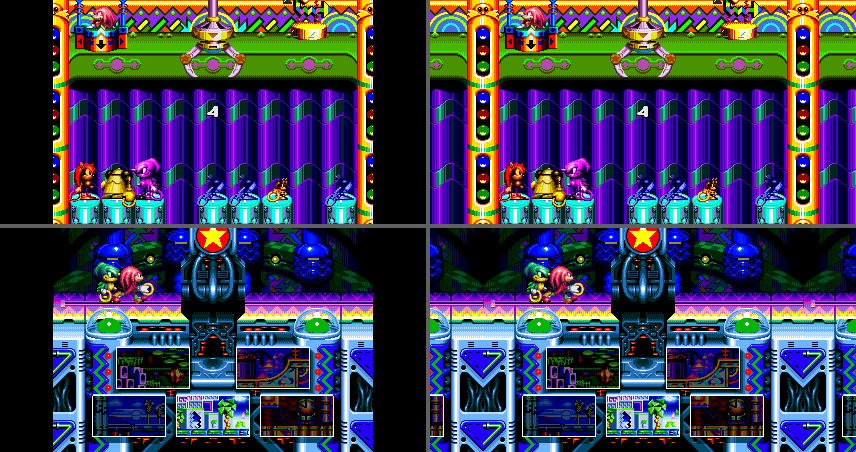
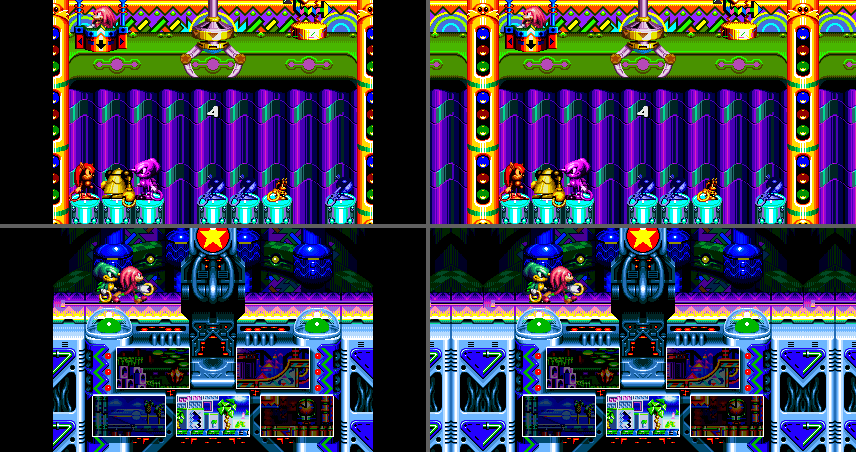
Stage select room: continue its wall panel, not the whole room (issue #5)
Repeated whole, the stage select room put half-cut 32X monitors, domes
and pieces of the central console into the margins. Its one repeating
part is its wall: a 64 px metal panel centred on each 4:3 edge, under the
16 px zig-zag floor band. The margins now continue that panel every 64 px
from the room's planes, with no sprites and no 32X (the character box is
gone). The Combi Catcher keeps its whole-room repeat.

diff --git a/src/runtime/system.cpp b/src/runtime/system.cpp
@@ -402,6 +402,7 @@ void Machine::render_output_line(int src_line, int dst_row) {
     // A room one screen wide, repeated in its margins (patches.h).
     const bool room = extra && wide_active && !wide_special && room_period > 0;
     vdp.tile_period = room ? room_period : 0;
+    vdp.tile_unit = room ? room_unit : 0;
     vdp.tile_left = room && lobby_room_left;
     vdp.tile_right = room && lobby_room_right;
     // Left of the lobby's origin, plane B only (patches::MarginCut).
@@ -483,18 +484,12 @@ void Machine::render_output_line(int src_line, int dst_row) {
         else if (debug_layer == 2 && !(show32x || ((p >> 24) == 0xFD && mdbg))) row[x] = 0xFFFF00FFu;
     }
     if (room) {
-        // The repeated room's margins: its planes (already repeated, without
-        // sprites), and in the stage select room its whole picture from
-        // room_period px further in, but for the characters' box
+        // The repeated room's margins are its planes alone (already repeated,
+        // without sprites): nothing the 32X draws belongs to the room's walls
         // (patches::kRoomRepeat).
-        const bool line_box = src_line >= room_box[2] && src_line < room_box[3];
-        auto repeat = [&](int x, int from) {
-            const int sx = from - extra;  // screen X of the column copied
-            if (room_32x && !(line_box && sx >= room_box[0] && sx < room_box[1])) row[x] = row[from];
-            else row[x] = 0xFF000000u | (indexed ? cram_rgb[top[x] & 0x3F] : md[x]);
-        };
-        if (vdp.tile_left) for (int x = 0; x < extra; ++x) repeat(x, x + room_period);
-        if (vdp.tile_right) for (int x = n - extra; x < n; ++x) repeat(x, x - room_period);
+        auto planes = [&](int x) { row[x] = 0xFF000000u | (indexed ? cram_rgb[top[x] & 0x3F] : md[x]); };
+        if (vdp.tile_left) for (int x = 0; x < extra; ++x) planes(x);
+        if (vdp.tile_right) for (int x = n - extra; x < n; ++x) planes(x);
     }
     if (extra) {
         // Scenes without widescreen support: black side bars. In a level,

diff --git a/src/runtime/vdp.cpp b/src/runtime/vdp.cpp
@@ -537,10 +537,21 @@ bool Vdp::render_line_indexed(int line, uint8_t* top, uint32_t* out_rgb, uint8_t
         for (int x = std::max(plane_a_hide_x0[i], xs); x < std::min(plane_a_hide_x1[i], xe); ++x)
             if (x < 0 || x >= width) a[x - xs] = 0;
     // A room repeated into the margins (tile_period): from inside the room.
-    const bool tiled = tile_period >= extra && tile_period <= width && extra > 0;
+    const bool tiled = tile_period >= extra && tile_period <= width && extra > 0 && tile_unit >= 0 &&
+                       tile_unit <= tile_period;
     if (tiled) {
-        for (int x = xs; x < 0 && tile_left; ++x) a[x - xs] = a[x + tile_period - xs], b[x - xs] = b[x + tile_period - xs];
-        for (int x = width; x < xe && tile_right; ++x) a[x - xs] = a[x - tile_period - xs], b[x - xs] = b[x - tile_period - xs];
+        // The column a margin column repeats: tile_period px further in, or
+        // with tile_unit, the same place in the unit straddling the 4:3 edge
+        // (c in [-unit/2, unit/2) from the seam, c < 0 being the far side's).
+        auto source = [&](int x) {
+            if (!tile_unit) return x < 0 ? x + tile_period : x - tile_period;
+            const int h = tile_unit / 2;
+            const int from_seam = x < 0 ? x : x - width;
+            const int c = ((from_seam + h) % tile_unit + tile_unit) % tile_unit - h;
+            return c < 0 ? tile_period + c : c;
+        };
+        for (int x = xs; x < 0 && tile_left; ++x) a[x - xs] = a[source(x) - xs], b[x - xs] = b[source(x) - xs];
+        for (int x = width; x < xe && tile_right; ++x) a[x - xs] = a[source(x) - xs], b[x - xs] = b[source(x) - xs];
     }
     if (radial_len > 0 && extra > 0 && line >= 0 && line < height()) {
         // The margins continue the scene's rings (see radial_lut). The rings

diff --git a/src/runtime/patches.h b/src/runtime/patches.h
@@ -578,14 +578,19 @@ constexpr int kLobbyCycled = 8;
 // the next one stood beside it: the room's planes kRoomRepeat px further in
 // (the pillars, the pit's purple columns, the drum, the console's side
 // panels continue across the seam), without sprites, which belong to this
-// room only. The stage select room's screens are 32X pictures in the
-// console: there the whole picture is repeated, but for the box around the
-// two characters and their ring (kRoomCharacterBox), where only its planes
-// are. Render only (Vdp::tile_period, Machine::render_output_line).
+// room only, and nothing of the 32X (the claw, the signs, the characters,
+// the stage select room's monitors).
+// The stage select room is not repeated whole: its drum, monitors, star
+// machine and console are one of a kind, and repeated they were cut in half
+// at the margins' outer edges. What does repeat there is its wall: a 64 px
+// metal panel (the pipe "7" and the triangle) centred on each 4:3 edge, half
+// of it inside the picture on either side, with the zig-zag floor band
+// (16 px) above it. The margins continue that panel every kStageSelectWall
+// px (Vdp::tile_unit), so the wall goes on outward. Render only
+// (Vdp::tile_period, Machine::render_output_line).
 constexpr int kRoomRepeat = 320;  // the native screen's width
 constexpr int kStageSelectRoomX = 2816;
-constexpr uint32_t kPlayerObjectPtr = 0xE034, kPartnerObjectPtr = 0xE036;  // words: object addresses
-constexpr int kRoomCharacterBox[4] = {-32, 32, -48, 32};  // x0, x1, y0, y1 around each character
+constexpr int kStageSelectWall = 64;
 // Fills Machine::lobby_* for this frame's picture, margins of e px.
 void lobby_margins(Machine& m, int e);
 // Fills Machine::room_* for a room one screen wide (kRoomRepeat).

diff --git a/src/runtime/patches.cpp b/src/runtime/patches.cpp
@@ -741,19 +741,9 @@ void lobby_margins(Machine& m, int e) {
 
 void room_repeat(Machine& m) {
     m.room_period = kRoomRepeat;
+    // The stage select room: only its wall panel repeats.
     const CameraRange r = camera_range(m);
-    m.room_32x = r.left == kStageSelectRoomX && r.right == kStageSelectRoomX;
-    if (!m.room_32x) return;
-    // The characters and the ring between them, on screen.
-    int x0 = INT32_MAX, x1 = INT32_MIN, y0 = INT32_MAX, y1 = INT32_MIN;
-    for (uint32_t ptr : {kPlayerObjectPtr, kPartnerObjectPtr}) {
-        const uint32_t obj = wram16(m, ptr);
-        if (obj < 0x8000 || obj > 0xFFC0) continue;
-        const int x = int16_t(wram16(m, obj + 8)) - camera_x(m), y = int16_t(wram16(m, obj + 0xC)) - camera_y(m);
-        x0 = std::min(x0, x + kRoomCharacterBox[0]), x1 = std::max(x1, x + kRoomCharacterBox[1]);
-        y0 = std::min(y0, y + kRoomCharacterBox[2]), y1 = std::max(y1, y + kRoomCharacterBox[3]);
-    }
-    m.room_box[0] = x0, m.room_box[1] = x1, m.room_box[2] = y0, m.room_box[3] = y1;
+    m.room_unit = r.left == kStageSelectRoomX && r.right == kStageSelectRoomX ? kStageSelectWall : 0;
 }
 
 bool title_margins(const Machine& m) { return wram16(m, kGameMode) == title_hold::kModeTitle; }
@@ -945,7 +935,7 @@ void begin_frame(Machine& m) {
     }
     m.ending_wide = level && ending_level(m);
     m.room_period = 0;
-    m.room_32x = false;
+    m.room_unit = 0;
     if (level && in_lobby(m)) {
         lobby_margins(m, e);
         if (m.lobby_room_left || m.lobby_room_right) room_repeat(m);

diff --git a/tests/test_widescreen_render.cpp b/tests/test_widescreen_render.cpp
@@ -372,8 +372,8 @@ TEST(widescreen_render, a_lobby_room_repeats_outside_its_range) {
     // Issue #61: the stage select room holds the camera at 2816..2816; its
     // margins would show the corridor beside it and, as it scrolls down,
     // blocks the engine never draws. They were black; since issue #5 they
-    // repeat the room (patches::kRoomRepeat), the stage select room's 32X
-    // picture too. A wide range is no room: its ends move as the player
+    // repeat the room (patches::kRoomRepeat); in the stage select room only
+    // its 64 px wall panel. A wide range is no room: its ends move as the player
     // goes on, and what lies beyond them was just in view.
     auto m = level_machine();
     auto put = [&](uint32_t at, int v) { m->wram[at] = uint8_t(v >> 8); m->wram[at + 1] = uint8_t(v); };
@@ -389,7 +389,7 @@ TEST(widescreen_render, a_lobby_room_repeats_outside_its_range) {
     CHECK_EQ(room.right, 0);
     CHECK(m->lobby_room_left && m->lobby_room_right);
     CHECK_EQ(m->room_period, patches::kRoomRepeat);
-    CHECK(m->room_32x);
+    CHECK_EQ(m->room_unit, patches::kStageSelectWall);
     // The SH-2 still draws nothing there: the margins repeat the room.
     CHECK_EQ(clip(0), 0);
     CHECK_EQ(clip(2), 320);

diff --git a/src/runtime/system.h b/src/runtime/system.h
@@ -210,14 +210,13 @@ public:
     int lobby_cut_left = 0, lobby_cut_right = 0;
     // A room one 4:3 screen wide (issue #5, patches::kRoomRepeat): its
     // margins repeat the room every room_period px on the sides it is cut
-    // on, instead of black; lobby_fade_* is black still. With room_32x the
-    // 32X picture is repeated as well, but for room_box (screen x0, x1, y0,
-    // y1: the characters). Render only.
+    // on, instead of black, or only a wall unit of room_unit px straddling
+    // each 4:3 edge (Vdp::tile_unit); lobby_fade_* is black still. Render
+    // only.
     int lobby_fade_left = 0, lobby_fade_right = 0;
     bool lobby_room_left = false, lobby_room_right = false;
     int room_period = 0;
-    bool room_32x = false;
-    int room_box[4] = {};
+    int room_unit = 0;
     // The ending's white scene is widened this frame (patches::ending_scene,
     // issue #5): its margins are not cut. Render only.
     bool ending_wide = false;

diff --git a/src/runtime/vdp.h b/src/runtime/vdp.h
@@ -59,8 +59,10 @@ public:
     // margins on the tiled sides show the room's planes again, tile_period px
     // further in (the room repeated, wall to wall), and no sprites: the
     // planes beyond the room hold only the corridor or nothing
-    // (runtime/patches.h, kRoomRepeat). tile_period 0: none.
-    int tile_period = 0;
+    // (runtime/patches.h, kRoomRepeat). tile_period 0: none. With tile_unit,
+    // only the tile_unit px straddling each 4:3 edge repeat, every tile_unit
+    // px (the stage select room's wall panel).
+    int tile_period = 0, tile_unit = 0;
     bool tile_left = false, tile_right = false;
     // Host-only: the widescreen margins the picture shows game content in
     // (columns beyond each side, rows below the active area); 0 where they

diff --git a/docs/ISSUE_5_WIDESCREEN_FIXES.md b/docs/ISSUE_5_WIDESCREEN_FIXES.md
@@ -100,29 +100,31 @@ wall to wall. Layer by layer:
 - **The roulette room.** Plane B is the room's own picture (a drum of domes
   and machinery behind the roulette), and it ends at the 4:3 edges. Plane A
   beyond the console is the corridor's walls, with blank ring columns
-  between them. The console's six screens are 32X pictures.
+  between them. The console's six screens are 32X pictures. The room has no
+  period of its own (it is mirror-symmetric), except its wall panels and
+  the floor band.
 
 So the planes beyond the rooms hold only the corridor or nothing.
 
-**Fix (the owner's choice).** The margins repeat the room as if another
-one stood beside it (`patches::kRoomRepeat`, 320 px): margin column x shows
-the room's column x + 320 (left) or x - 320 (right).
+**Fix (the owner's choice).** The margins continue the room's own walls
+(`patches::kRoomRepeat`), from its planes only (`Vdp::tile_period`,
+`Vdp::tile_unit`):
 
-- **Planes.** Both planes are drawn from the repeated column
-  (`Vdp::tile_period`). The Combi Catcher's pillars, pit columns and floor,
-  and the roulette room's drum and console side panels, continue across
-  the 4:3 edge.
-- **Sprites.** No sprites are drawn in the repeated margins: the claw, the
-  capsules, the signs and the characters belong to this room only.
-- **The 32X layer.**
-  - The Combi Catcher's 32X layer holds only objects, so its margins show
-    the planes alone.
-  - In the stage select room the screens are 32X art of the console, so
-    there the whole repeated column is shown, 32X included.
-  - The exception is a box around the two characters and the ring between
-    them (`kRoomCharacterBox`, from their objects at `$FFE034` and
-    `$FFE036`). Where the box falls on a repeated column, only the planes
-    are shown, so a character walking to one side does not appear twice.
+- **The Combi Catcher** is repeated whole, as if another one stood beside
+  it: margin column x shows the room's column x + 320 (left) or x - 320
+  (right). Its pillars stand astride the 4:3 edges, so a whole pillar forms
+  at each seam, and the pit's purple columns and the floor go on beyond.
+- **The stage select room** is not: its drum, monitors, star machine and
+  console are one of a kind, and repeated whole they came out cut in half
+  at the margins' outer edges. What repeats in that room is its wall: a
+  64 px metal panel (the pipe "7", the triangle) centred on each 4:3 edge,
+  half of it inside the picture on either side, under the zig-zag floor
+  band (16 px). Margin column x shows the same place in that panel
+  (`kStageSelectWall`): panel after panel, the band and the dark edge of
+  the drum above them going on outward.
+- **No sprites and no 32X** are drawn in the margins. The claw, the
+  capsules, the signs, the monitors and the characters belong to this room
+  only, and the walls the margins continue are all Mega Drive plane tiles.
 
 The margins are black only while the lobby fades (as before), and the
 SH-2's clip stays native in the rooms. Render only: the machine state

diff --git a/docs/ISSUE_61_WORLD_ENTRANCE.md b/docs/ISSUE_61_WORLD_ENTRANCE.md
@@ -66,8 +66,8 @@ too: nothing is shown in its margins, and the Combi Catcher's TIME UP, scaled
 up past the screen, flipped a frame or two late when it was drawn there.
 Issue #5 looked at these rooms again, layer by layer: each is one 4:3
 screen wide, and beyond it the planes hold only the corridor or nothing.
-At the owner's choice their margins now repeat the room, wall to wall,
-instead of black (ISSUE_5_WIDESCREEN_FIXES.md, item 4).
+At the owner's choice their margins now continue the room's walls instead
+of black (ISSUE_5_WIDESCREEN_FIXES.md, item 4).
 
 The lobby's outdoor entrance, where the camera is at X 0..12, now shows
 plane B's outdoor picture left of the origin instead of black (issue #5,
